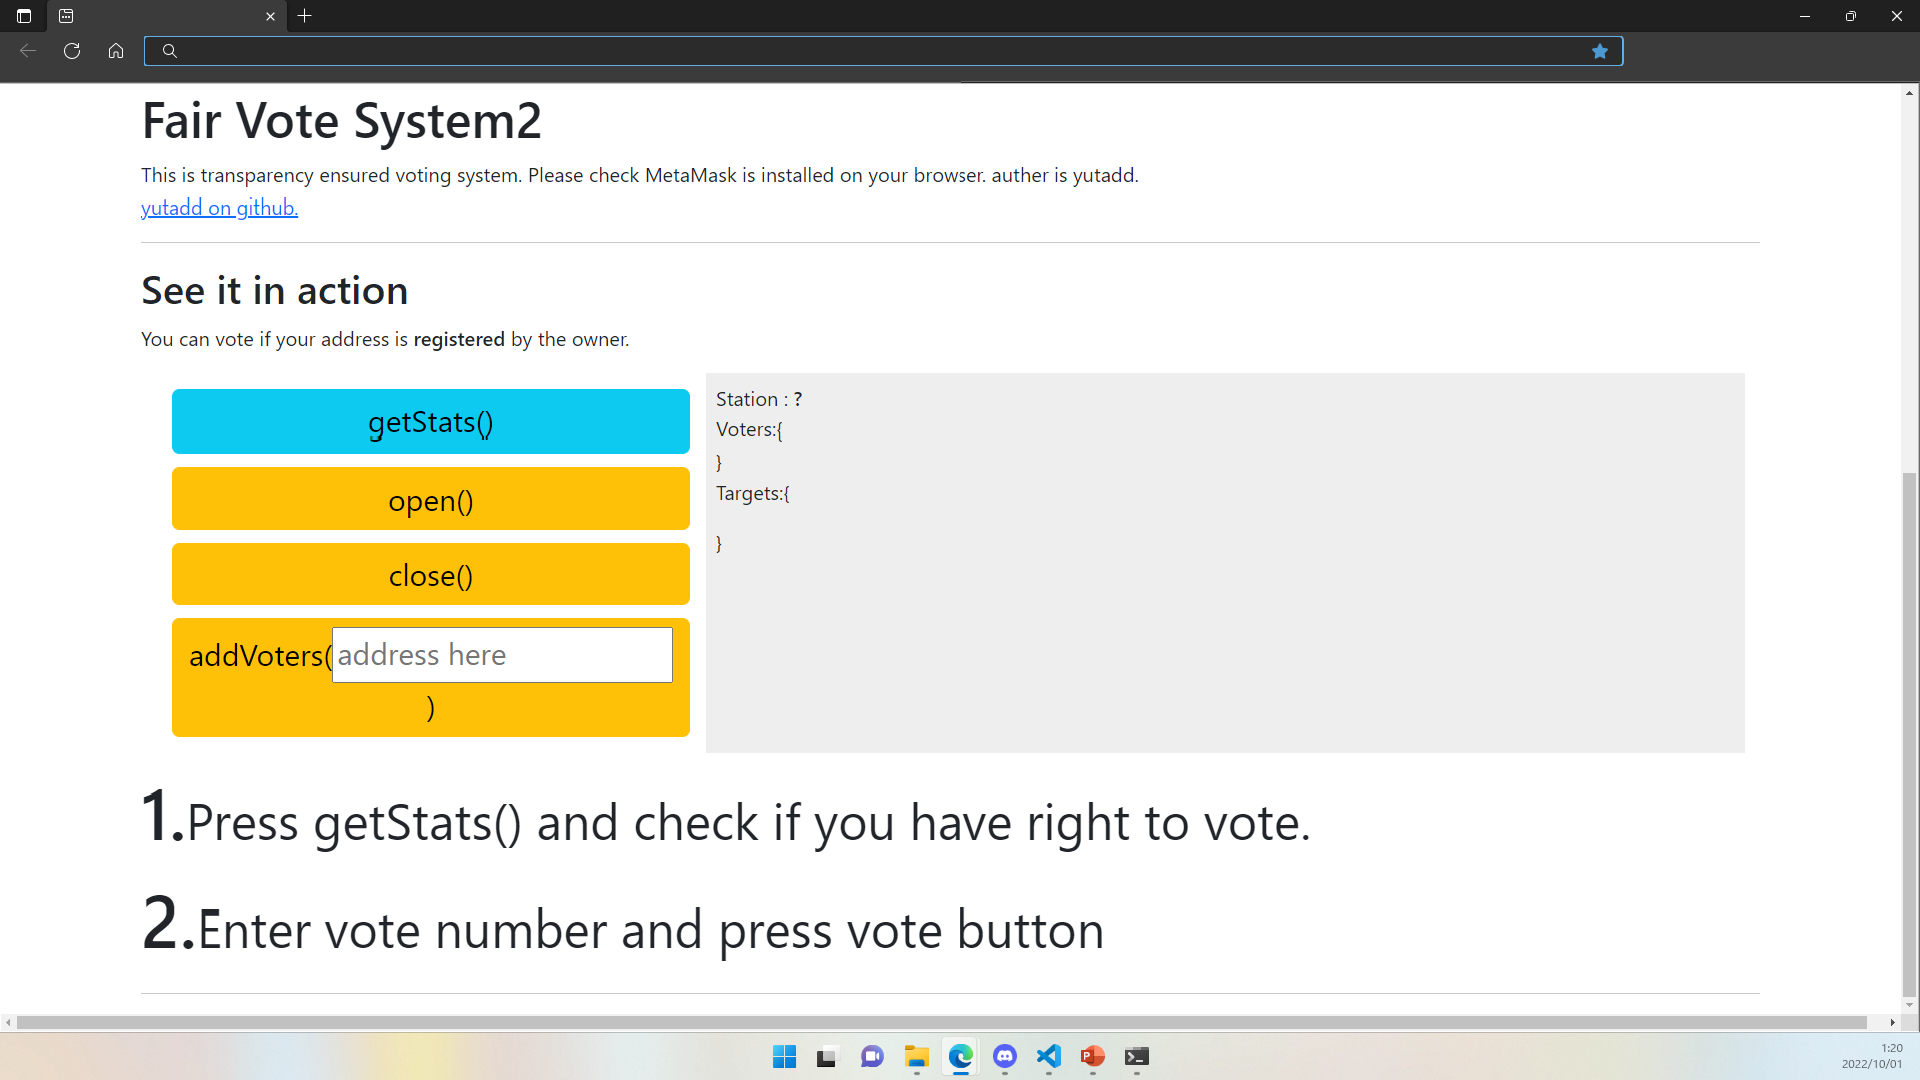
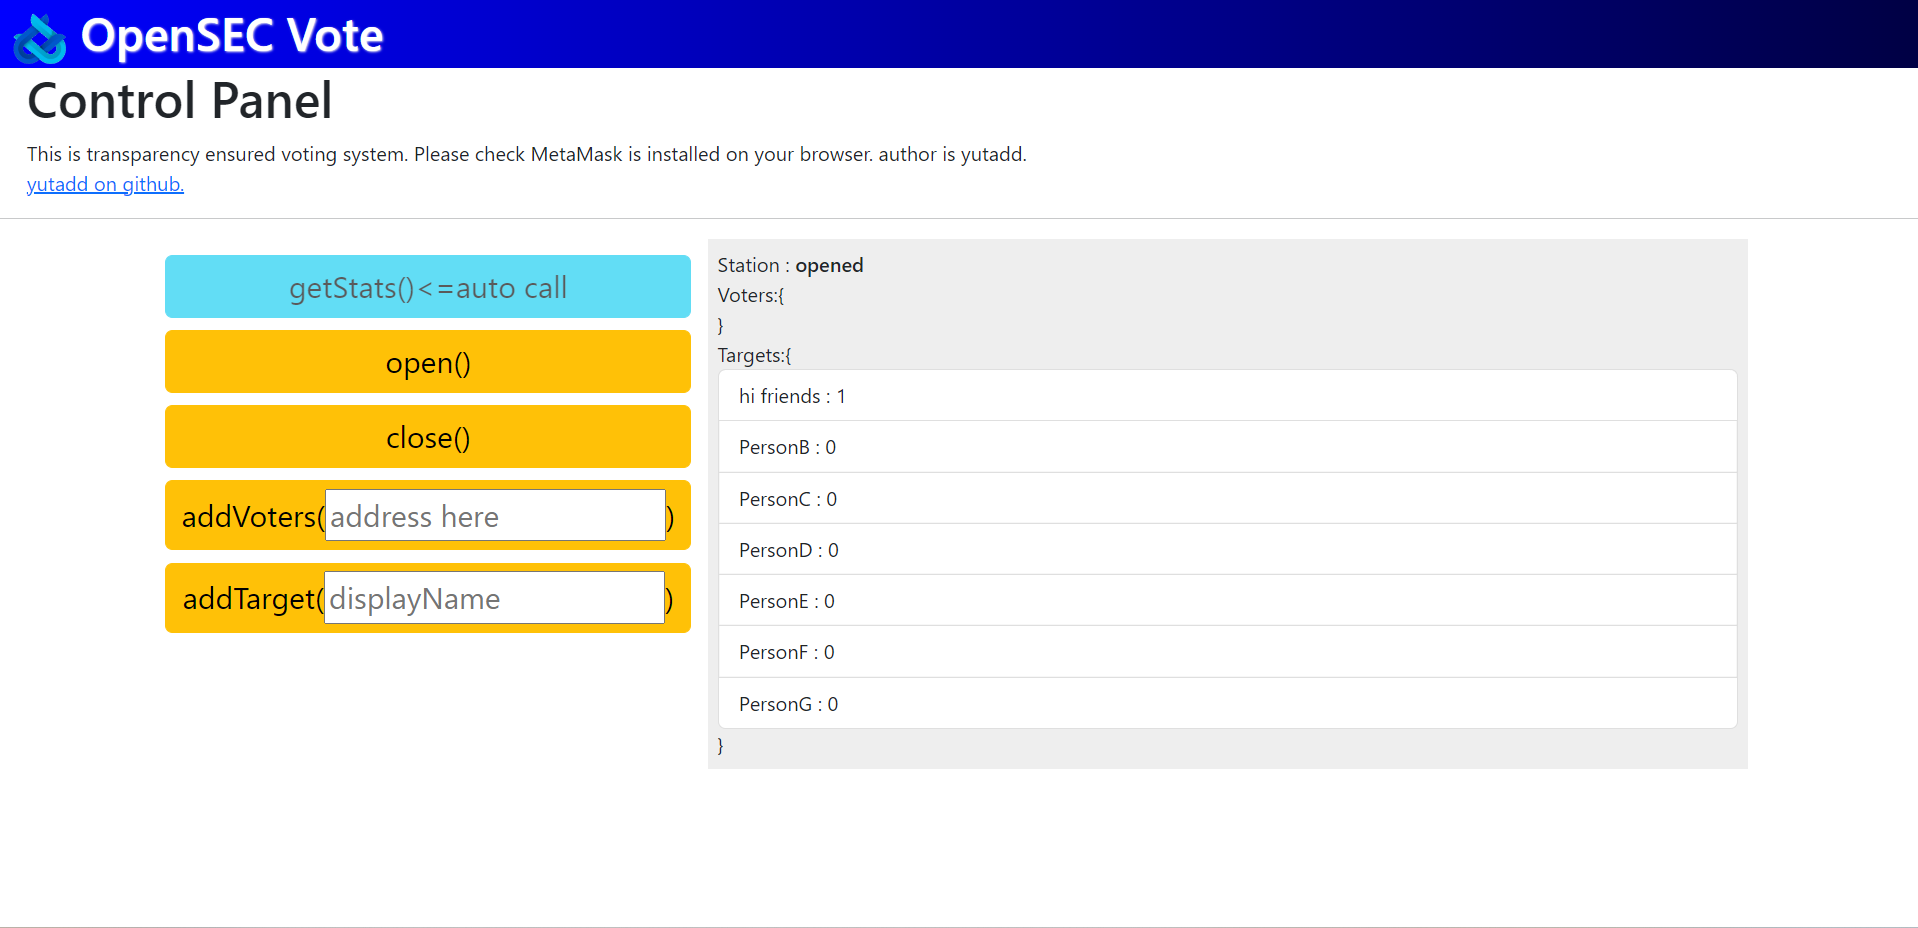
tlanslated to English.

diff --git a/client/src/components/Home/Home.jsx b/client/src/components/Home/Home.jsx
@@ -1,25 +1,25 @@
-import "./style.css";
+import "./style1.css";
 export const Home = () => {
   return (
     <div>
       <div className="start-container background ">
-        <a className="menu-link" aria-current="page" href="#">
+        <a className="menu-link" aria-current="page" href="/">
           <img className="logo" src="/logo2.png" />
         </a>
         <span className="menu-link title-text">OpenSEC Vote</span>
         <div className="admin-button inline">
-          <a className="btn btn-warning" href="admin">
-            管理者用ページ
+          <a className="btn btn-primary" href="admin">
+            Admin Page
           </a>
         </div>
         <br />
         <div className="left">
           <div className="discription">
-            <div className="discription-title">透明性・可用性</div>
+            <div className="discription-title">Advanced voting system</div>
             <div className="discription-text">
-              誰でも簡単に投票し、誰でも簡単に不正を監視することができ、
+              Transparency + Availability + Usability
               <br />
-              reVoteができる公平な投票システム。
+              You can check all activity on BlockChain.
             </div>
           </div>
           <div className="btn-container">
@@ -31,14 +31,14 @@ export const Home = () => {
               </div>
               <br />
             </div>
-            <a href="" className="btn-explanation">
+            <a href="/usage_v" className="btn-explanation">
               {" "}
-              <img src="hatena.png" alt="?" /> 使い方
+              <img src="hatena.png" alt="?" /> Usage for voter.
             </a>
             <br />
             <a href="" className="btn-explanation">
               {" "}
-              推奨環境: edge, chrome or firefox
+              Recommended env: edge, chrome or firefox
             </a>
           </div>
         </div>

diff --git a/client/src/components/Usage-voter/Usage.jsx b/client/src/components/Usage-voter/Usage.jsx
@@ -1,0 +1,33 @@
+import "./style4.css";
+export const Usage_v= () => {
+
+    return(<>
+        <div className="start-container background ">
+          <a className="menu-link" aria-current="page" href="/">
+            <img className="logo" src="/logo2.png" />
+          </a>
+          <span className="menu-link title-text">OpenSEC Vote</span>
+          <div className="admin-button inline">
+            <a className="btn btn-primary" href="admin">
+              Admin page
+            </a>
+          </div>
+        </div>
+        <div className="welcome">
+        <h1 className="padding">How To Vote?</h1>
+        <p className="padding2 howto">
+          Well, Voting to target is quite simple.<br />
+          But first, you need to prepare your metamask to access this service.<br />
+          And if voting someone actually, your account must be registed by a owner.<br />
+          If you passed above you can vote following this. ↓<br />
+          1.Access to <a href="/voter">voter page</a>and wait a moment Please(loading contract is about 2 sec).<br />
+          2.Please vote carefully.<br />
+          3.If you vote to unintended target, you can revote to another target.<br />
+          <br />
+          author-&gt;<a href="http://github.com/yutadd">yutadd on github.</a>
+        </p>
+      </div>
+      <hr />
+  </>);
+};
+export default Usage_v;

diff --git a/client/public/index.html b/client/public/index.html
@@ -2,14 +2,14 @@
 <html lang="en">
   <head>
     <meta charset="utf-8" />
-    <link rel="icon" href="%PUBLIC_URL%/favicon.ico" />
+    <link rel="icon" href="%PUBLIC_URL%/logo2.png" />
     <meta name="viewport" content="width=device-width, initial-scale=1" />
     <meta name="theme-color" content="#000000" />
     <meta
-      name="description"
-      content="React Truffle Box"
+      name="OpenSEC Vote"
+      content="OpenSEC Vote"
     />
-    <link rel="apple-touch-icon" href="%PUBLIC_URL%/logo192.png" />
+    <link rel="apple-touch-icon" href="%PUBLIC_URL%/logo2.png" />
     <!--
       manifest.json provides metadata used when your web app is installed on a
       user's mobile device or desktop. See https://developers.google.com/web/fundamentals/web-app-manifest/
@@ -24,7 +24,7 @@
       work correctly both with client-side routing and a non-root public URL.
       Learn how to configure a non-root public URL by running `npm run build`.
     -->
-    <title>React Truffle Box</title>
+    <title>OpenSEC Vote</title>
   </head>
   <body>
     <noscript>You need to enable JavaScript to run this app.</noscript>

diff --git a/client/src/components/Admin/Admin.jsx b/client/src/components/Admin/Admin.jsx
@@ -1,18 +1,26 @@
 import Demo from "../control-panel";
+import "./style2.css"
 export const Admin = () => {
   return (<>
+    <div className="start-container background ">
+      <a className="menu-link" aria-current="page" href="/">
+        <img className="logo" src="/logo2.png" />
+      </a>
+      <span className="menu-link title-text">OpenSEC Vote</span>
+    </div>
       <div className="welcome">
-        <h1>Control Panel</h1>
-        <p>
+        <h1 className="padding">Control Panel</h1>
+        <p className="padding">
           This is transparency ensured voting system. Please check MetaMask is
-          installed on your browser. auther is yutadd.
+          installed on your browser. author is yutadd.
           <br />
-          <a href="http://github.com/yutadd">yutadd on github.</a>
+          usage -&gt;<a href="/usage_a">usage for admin</a>.
+          <br />
+          author-&gt;<a href="http://github.com/yutadd">yutadd on github.</a>
         </p>
       </div>
       <hr />
       <Demo />
-      <hr />
       </>
   );
 };

diff --git a/client/src/components/control-panel/index.jsx b/client/src/components/control-panel/index.jsx
@@ -17,28 +17,11 @@ const [values, setValue] = useState({
           <Contract values={values} />
         </div>
       </div>
-      <span style={{ fontSize: "3.5rem", fontWeight: "bold" }}>1.</span>
-      <span style={{ fontSize: "2.5rem" }}>Add all voter(address) address to contract.</span>
-      <br />
-      <span style={{ fontSize: "3.5rem", fontWeight: "bold" }}>2.</span>
-      <span style={{ fontSize: "2.5rem" }}>add Target(Any)</span>
-      <br />
-      <span style={{ fontSize: "3.5rem", fontWeight: "bold" }}>3.</span>
-      <span style={{ fontSize: "2.5rem" }}>Send private key to voter.</span>
-      <br />
-      <span style={{ fontSize: "3.5rem", fontWeight: "bold" }}>3.</span>
-      <span style={{ fontSize: "2.5rem" }}>call open() method.</span>
     </>
   );
 
   return (
     <div className="demo">
-      <h2>Controll-panel</h2>
-      <p>
-        Voter only who {}
-        <span style={{ fontWeight: "bold" }}>registered</span> {}
-        by the owner can vote.
-      </p>
       {
         demo
       }

diff --git a/client/src/components/VoterPanel/VoterPanel.jsx b/client/src/components/VoterPanel/VoterPanel.jsx
@@ -2,7 +2,7 @@
 import { Component, useState } from "react";
 import Web3 from "web3";
 
-import "./style.css";
+import "./style0.css";
 import { useEffect } from "react";
 
 export const VoterPanel = () => {
@@ -130,16 +130,19 @@ if(!state.error){
   },[]);
   return (<>
       <div className="start-container background ">
-        <a className="menu-link" aria-current="page" href="#">
+        <a className="menu-link" aria-current="page" href="/">
           <img className="logo" src="/logo2.png" />
         </a>
         <span className="menu-link title-text">OpenSEC Vote</span>
         <div className="admin-button inline">
-          <a className="btn btn-warning" href="admin">
-            管理者用ページ
+          <a className="btn btn-primary" href="admin">
+            Admin page
           </a>
         </div>
       </div>
+      <a href="/usage_v" className="hint">
+        <img src="hatena.png" alt="?" />Usage for voter.
+      </a>
       <div>
       {list}
       </div>

diff --git a/client/src/App.jsx b/client/src/App.jsx
@@ -4,6 +4,8 @@ import { BrowserRouter as Router, Route, Routes } from "react-router-dom";
 import { Home } from "./components/Home/Home";
 import { Admin } from "./components/Admin/Admin";
 import { VoterPanel } from "./components/VoterPanel/VoterPanel";
+import {Usage_v} from "./components/Usage-voter/Usage";
+import {Usage_a} from "./components/Usage-admin/Usage"
 
 function App() {
   return (
@@ -12,6 +14,8 @@ function App() {
         <Route exact path="/" element={<Home />} />
         <Route path="/admin" element={<Admin />} />
         <Route path="/voter" element={<VoterPanel />} />
+        <Route path="/usage_v" element={<Usage_v />} />
+        <Route path="/usage_a" element={<Usage_a />} />
       </Routes>
     </Router>
   );

diff --git a/client/src/components/Usage-admin/Usage.jsx b/client/src/components/Usage-admin/Usage.jsx
@@ -1,0 +1,15 @@
+export const Usage_a=()=>{
+return(<>
+<div className="start-container background ">
+        <a className="menu-link" aria-current="page" href="/">
+          <img className="logo" src="/logo2.png" />
+        </a>
+        <span className="menu-link title-text">OpenSEC Vote</span>
+        <div className="admin-button inline">
+          <a className="btn btn-primary" href="admin">
+            Admin page
+          </a>
+        </div>
+      </div></>)
+};
+export default Usage_a;

diff --git a/client/src/components/Home/style1.css b/client/src/components/Home/style1.css
@@ -1,7 +1,6 @@
 @media (min-width: 500px) {
   .start-container {
     min-width: 100vw;
-    min-height: 70vh;
   }
   .background {
     background: linear-gradient(to right, blue, #004);
@@ -26,7 +25,7 @@
     height: 7vh;
   }
   .menu-link {
-    padding-left: 6px;
+    padding-left: 1vh;
     color: white;
     font-size: 5vh;
     text-decoration: none;

diff --git a/client/src/components/VoterPanel/style0.css b/client/src/components/VoterPanel/style0.css
@@ -1,0 +1,14 @@
+@media (min-width: 500px) {
+  .col-sm-4 {
+    display: inline-block;
+    padding-left: 1vh;
+    
+    padding-top: 1vh;
+  }
+  .hint{
+    color:black;
+  }
+  .hint:hover{
+    color:black;
+  }
+}

diff --git a/client/src/components/Usage-voter/style4.css b/client/src/components/Usage-voter/style4.css
@@ -1,0 +1,8 @@
+@media (min-width: 500px) {
+    .padding2{
+      padding-left:5vh;
+    }
+    .howto{
+        font-size:2vh;
+    }
+  }

diff --git a/client/src/components/Admin/style2.css b/client/src/components/Admin/style2.css
@@ -1,0 +1,5 @@
+@media (min-width: 500px) {
+  .padding{
+    padding-left:3vh;
+  }
+}
